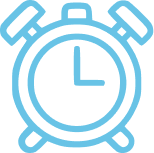
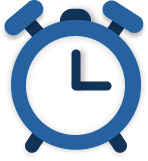
correções
arrumei relogio, tela de sem relatorios e olho da senha

diff --git a/css/icons.css b/css/icons.css
@@ -106,7 +106,7 @@
     background-position: 20px center;
     background-repeat: no-repeat; 
     background-size: 20px; 
-}
+} 
 
 #senha, #senhaConfirm {
     /* CAIXA */
@@ -120,17 +120,17 @@
     border: 2px;
     width: 100%;
     height: 100%;
-    /* TEXTO */
+    /* FONTE */
     font-family: "Quicksand";
     font-weight: bold;
     color: #000000;
     font-size: 16px;
-    /* ICONS */
+    /* ICON */
     background-image: url('media/password.png');
     background-position: 20px center;
     background-repeat: no-repeat; 
     background-size: 20px; 
-}
+} 
 
 #camera {
     width: 35px;
@@ -217,4 +217,42 @@
 #qrcode {
     width: 220px;
     text-align: center;
+}
+
+.eyeVisible {
+    background-color: transparent;
+    height: 0px;
+}
+
+.aberto {
+    box-shadow: 0px 0px 8px 0px rgba(0, 0, 0, 0.15);
+    background-image: url('media/see.png');
+    background-repeat: no-repeat; 
+    background-position: center;
+    margin: 0px 10px 0px 10px;
+    background-color: #fff;
+    box-sizing: border-box;
+    background-size: 25px; 
+    border-radius: 20px;
+    padding: 25px;
+    border: 0px;
+}
+
+.fechado { 
+    box-shadow: 0px 0px 8px 0px rgba(0, 0, 0, 0.15);
+    background-image: url('media/dontsee.png');
+    background-repeat: no-repeat; 
+    background-position: center;
+    margin: 0px 10px 0px 10px;
+    background-color: #fff;
+    background-size: 25px; 
+    box-sizing: border-box;
+    border-radius: 19px;
+    padding: 25px;
+    border: 0px;
+}
+
+#enf {
+    width: 80px;
+    margin-bottom: 0px;
 }

diff --git a/relatoriovazio.html b/relatoriovazio.html
@@ -1,0 +1,39 @@
+<!DOCTYPE html>
+<html lang="pt-BR">
+
+<head>
+    <meta charset="UTF-8">
+    <meta name="viewport" content="width=device-width, initial-scale=1.0">
+    <link rel="stylesheet" href="css/relatorio.css">
+    <link rel="stylesheet" href="css/icons.css">
+
+    <!-- FONTES -->
+    <link rel="preconnect" href="https://fonts.googleapis.com">
+    <link rel="preconnect" href="https://fonts.gstatic.com" crossorigin>
+    <link href="https://fonts.googleapis.com/css2?family=Nunito&family=Quicksand:wght@300..700&display=swap"
+        rel="stylesheet">
+
+    <title>MediCare - Relatório Médico</title>
+</head>
+
+<body>
+    <h1>MediCare</h1>
+    <P>Relatório Médico</P>
+    <div class="bloco1">
+        <h2>Andar 01</h2>
+
+
+        <div class="bloco">
+        <img src="css/media/enf.png" id="enf">
+        <h5>Não há novos relatórios</h5>
+        </div>
+    </div>
+
+    <div class="navbar">
+        <a href="home.html"><img src="pics/home.png" class="icon" id="homeIcon"></a>
+        <a href="relatorio.html"><img src="pics/relatorios.png" class="icon selected" id="relatorioIcon"></a>
+        <a href="historico.html"><img src="pics/history.png" class="icon" id="historyIcon"></a>
+        <a href="perfil.html"><img src="pics/perfil.png" class="icon" id="perfilIcon"> </a>
+    </div>
+</body>
+</html>

diff --git a/login.html b/login.html
@@ -6,16 +6,17 @@
     <meta name="viewport" content="width=device-width, initial-scale=1.0">
     <link rel="stylesheet" href="css/login.css">
     <link rel="stylesheet" href="css/icons.css">
-    
+
+    <script src="js/coren.js"></script>
+    <script src="js/senha.js"></script>
+    <script src="js/login.js"></script>
+    <script src="js/seta.js"></script>
 
     <!-- Fontes -->
     <link rel="preconnect" href="https://fonts.googleapis.com">
     <link rel="preconnect" href="https://fonts.gstatic.com" crossorigin>
     <link href="https://fonts.googleapis.com/css2?family=Nunito&family=Quicksand:wght@300..700&display=swap" rel="stylesheet">
-    <script src="js/seta.js"></script>
-    <script src="js/coren.js"></script>
-    <script src="js/senha.js"></script>
-    <script src="js/login.js"></script>
+
     <title>MediCare - Iniciar Atendimento</title>
 </head>
 

diff --git a/css/relatorio.css b/css/relatorio.css
@@ -10,6 +10,13 @@ body {
    text-align: center;
 }
 
+.bloco {
+    box-shadow: 0px 0px 10px rgba(0, 0, 0, 0.1);
+    padding: 35px 25px 1px 25px;
+    background-color: white;
+    border-radius: 25px;
+}
+
 /* NAVBAR */
 .navbar {
     justify-content: space-around;
@@ -75,6 +82,16 @@ h4 {
     margin-bottom: 20px;
     text-align: start;
     line-height: 5%;
+}
+
+h5 {
+    font-family: "Quicksand", sans-serif;
+    color: rgba(39, 169, 219, 1);
+    font-weight: weight;
+    font-style: normal;
+    text-align: center;
+    font-size: 20px;
+    margin-top: 30px;
 }
 
 p {

diff --git a/css/cadastro.css b/css/cadastro.css
@@ -103,27 +103,6 @@ a {
     font-weight: bold;
 }
 
-
-.eyeVisible{
-    background-color: transparent;
-    height: 50px;
-    width: 70px;
-}
-
-.aberto{
-    background-image: url('media/openEye.png');
-    background-repeat: no-repeat; 
-    background-position: center;
-    background-size: 20px; 
-}
-
-.fechado{
-    background-image: url('media/closeEye.png');
-    background-repeat: no-repeat; 
-    background-position: center;
-    background-size: 20px; 
-}
-
 /* POPUP */
 .black {
     background-color: rgba(0, 0, 0, 0.5); 

diff --git a/home.html b/home.html
@@ -30,7 +30,7 @@
 
     <div class="navbar">
         <a href="homeC.html"><img src="pics/home.png" class="icon" id="HomeIcon"></a>
-        <a href="relatorio.html"><img src="pics/relatorios.png" class="icon" id="PaperIcon"></a>
+        <a href="relatoriovazio.html"><img src="pics/relatorios.png" class="icon" id="PaperIcon"></a>
         <a href="historico.html"><img src="pics/history.png" class="icon" id="ClockIcon"></a>
         <a href="perfil.html"><img src="pics/perfil.png" class="icon" id="PeopleIcon"> </a>
     </div>

diff --git a/css/login.css b/css/login.css
@@ -103,24 +103,3 @@ img {
     margin-top: 45px;
     width: 110px;
 }
-
-.eyeVisible{
-    background-color: transparent;
-    width: 12.5%;
-    height: 50px;
-    margin: 0% 0% 0% 1%;
-}
-
-.aberto{
-    background-image: url('media/openEye.png');
-    background-repeat: no-repeat; 
-    background-position: center;
-    background-size: 20px; 
-}
-
-.fechado{
-    background-image: url('media/closeEye.png');
-    background-repeat: no-repeat; 
-    background-position: center;
-    background-size: 20px; 
-}

diff --git a/js/login.js b/js/login.js
@@ -13,6 +13,6 @@ document.addEventListener("submit", (event) => {
         allowed = true; // Temporário
 
         if (allowed == true){
-            window.location.href = "home.html";
+            window.location.href = "qrcodeex.html";
         }
 });

diff --git a/css/historicoinfo.css b/css/historicoinfo.css
@@ -101,8 +101,8 @@ a {
 /* CAIXA */
 .box {
     box-shadow: 0px 0px 10px rgba(0, 0, 0, 0.1);
-    padding: 15px;
-    margin: 0px 20%;
     background-color: white;
     border-radius: 25px;
+    margin: 0px 20%;
+    padding: 15px;
 }
